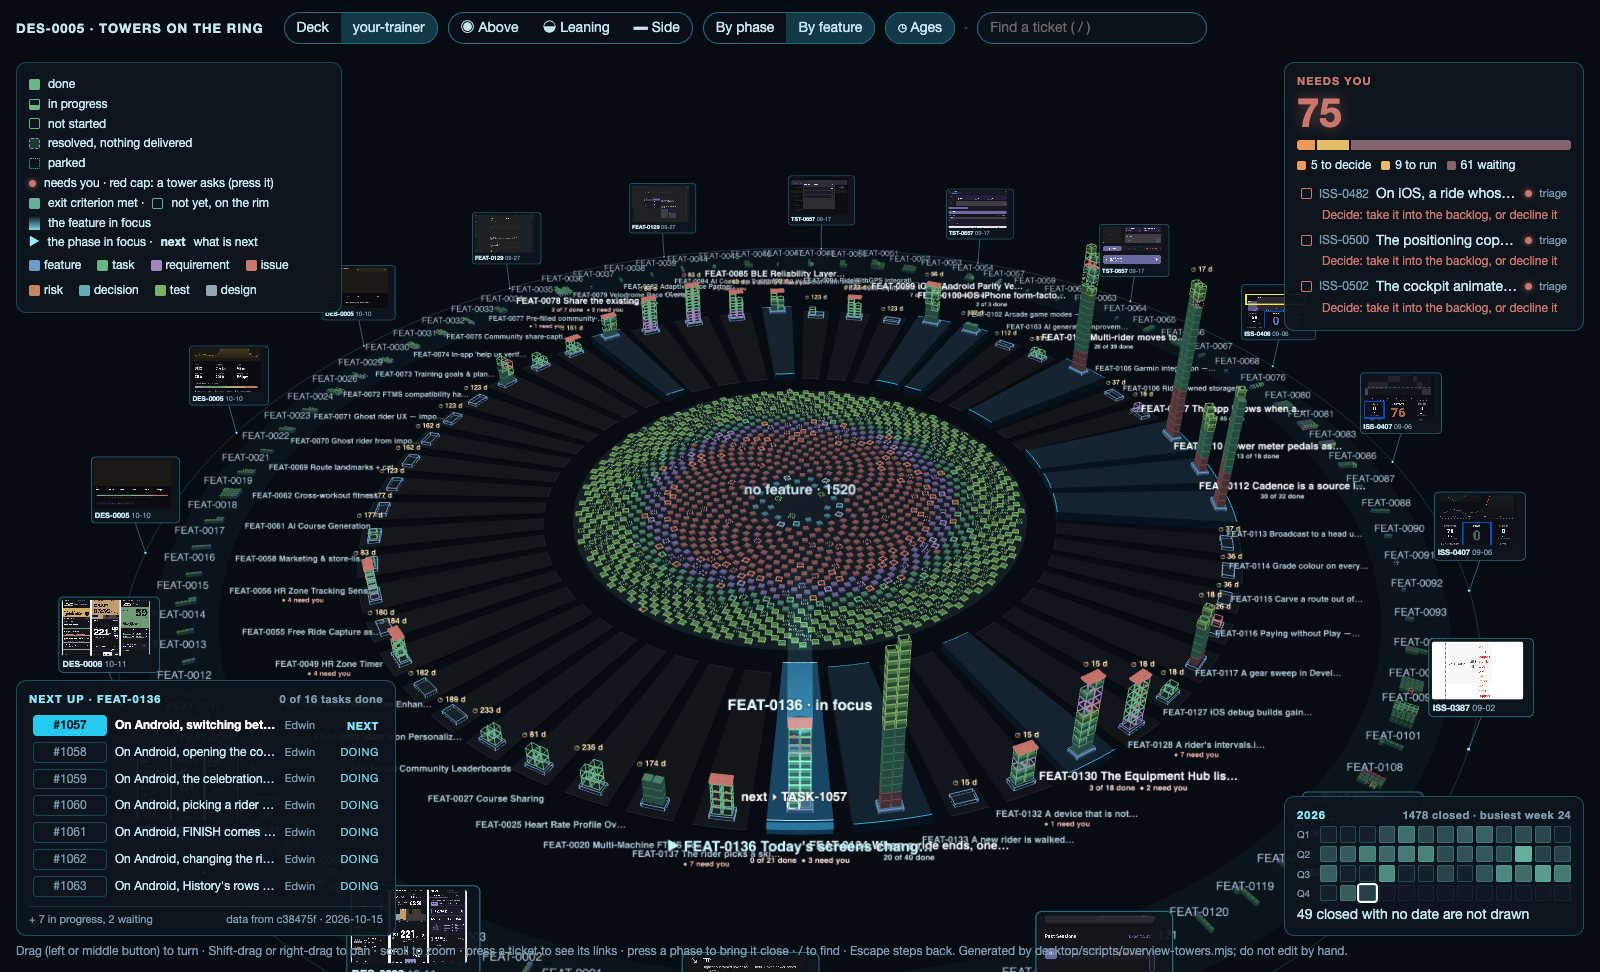
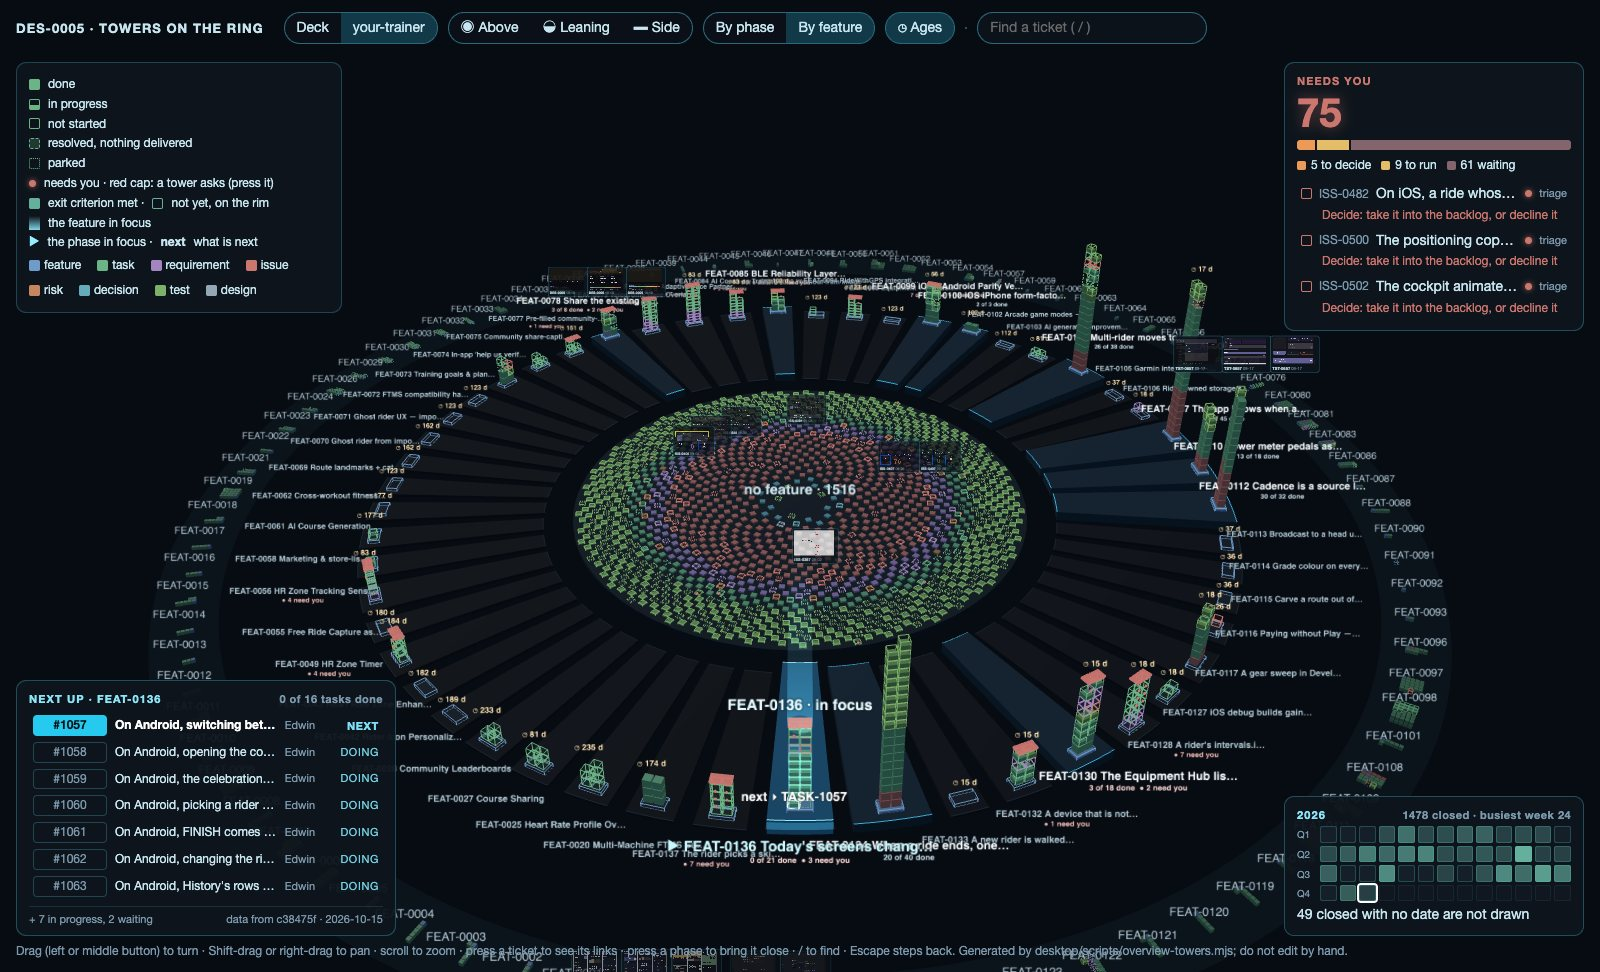
A phase brought close keeps its own pictures; DES-0005 describes pictures standing at their tickets, with new pictures (TASK-0179)

diff --git a/desktop/scripts/overview-towers-page.js b/desktop/scripts/overview-towers-page.js
@@ -760,7 +760,7 @@ function openPhase(i, selectId = null) {
   });
   state.shelfGroup.visible = false;
   state.coreGroup.visible = false;
-  state.evidenceGroup.visible = false;
+  // The phase's own pictures still stand at their tickets; the others are hidden in placeEvidence.
   state.nextMark.visible = state.where.get(state.d.next)?.phase === i;
   const ph = state.phases[i];
   const rMid = (state.R0 + state.R1) / 2;

diff --git a/docs/designs/DES-0005-towers.html b/docs/designs/DES-0005-towers.html
@@ -902,7 +902,7 @@ function openPhase(i, selectId = null) {
   });
   state.shelfGroup.visible = false;
   state.coreGroup.visible = false;
-  state.evidenceGroup.visible = false;
+  // The phase's own pictures still stand at their tickets; the others are hidden in placeEvidence.
   state.nextMark.visible = state.where.get(state.d.next)?.phase === i;
   const ph = state.phases[i];
   const rMid = (state.R0 + state.R1) / 2;

diff --git a/docs/designs/DES-0005-The-Overview-Is-Drawn-Not-Written.md b/docs/designs/DES-0005-The-Overview-Is-Drawn-Not-Written.md
@@ -262,13 +262,13 @@ A search for "heart rate" on your-trainer: 29 matches, in four phases of the rin
 - **A needs-you panel, top right.** A large count of the tickets that need you, then one bar split by the cockpit's reasons: failed, to review, to decide (triage), to run (a test never run) and waiting. The first three tickets follow as cockpit rows, the most urgent reason first. Pressing a part of the bar, or its word, lights those tickets on the ring as a search does; pressing a row selects its ticket.
 - **By phase, or by feature.** A switch in the header regroups the ring. By feature, each unfinished feature is a segment with its tickets as one tower, whatever phase they are in, and the feature in focus faces you. Finished features stand on the shelf, and tickets of no feature lie in the core. Each segment's name is smaller than a phase's, since there are many more of them. The page remembers the choice in this browser.
 - **Age badges.** A tower whose tickets have not changed for 14 days or more carries "◷ 34 d": the days from its newest change to the date the data was read, which is the fixture's date, not today. The card gives the same count for one ticket. "◷ Ages" in the header hides and shows them.
-- **A ring of recent evidence**, outside the shelf: up to eighteen of the newest pictures kept beside the notes, at most three for one ticket, each on a post with its ticket's id and date. A picture belongs to the note that names it (its `evidence:` field, a link, or a wiki link by path, or by name when no other picture has that name), else to the ticket its file name names, else to the feature whose folder holds it; its date is its last commit, and a picture changed since is shown as it is today. Pressing one selects its ticket. The pictures are the files themselves, so the page shows them only where the repositories sit side by side, as here.
+- **Pictures stand at their own tickets** ([[TASK-0179]], 2026-10-22, replacing the ring of evidence outside the shelf that Edwin found wrong: further out on the towers means further from the work, and the pictures of the work in hand stood furthest out). Up to eighteen of the newest pictures kept beside the notes, at most three for one ticket, each stand just above their ticket: over its feature's tower, its tile, its finished phase's block on the shelf, or the core. Nearer the work, larger: a picture of the feature in focus is largest, then the phase in focus, then other unfinished work, then the core, and the shelf's are smallest and faded. With a phase brought close, only its pictures stand. A selected ticket's pane shows all its pictures, up to twelve. A picture belongs to the note that names it (its `evidence:` field, a link, or a wiki link by path, or by name when no other picture has that name), else to the ticket its file name names, else to the feature whose folder holds it; its date is its last commit, and a picture changed since is shown as it is today. A design stands in its feature's tower: the feature names it in `design:`, or the design names the feature in its own `implements:`. The pictures are the files themselves, so the page shows them only where the repositories sit side by side, as here.
 - **The year as weeks, bottom right**: four rows of thirteen squares, each filled by the tickets closed that week, the week the data was read outlined and the weeks after it faint. A ticket's closing week is the last update of its note; the last day or two of the year fold into week 52, and closed tickets with no date are counted under the squares (49 on your-trainer). Pressing a week lights the tickets closed in it.
 - The two panels on the right give way to the right pane when it opens.
 
 ![Deck grouped by feature](__attachments__/DES-0005/towers-deck-byfeature.jpg)
 
-Deck grouped by feature: the 15 unfinished features stand on the ring, FEAT-0028 in focus at the front, and 147 tickets of no feature lie in the core. The needs-you panel counts 12: 5 to review, 1 to run and 6 waiting. The year shows 298 tickets closed in 2026, the busiest week the 36th. The evidence ring holds eight pictures: three each of DES-0005 and DES-0004, two of DES-0003.
+Deck grouped by feature: the 15 unfinished features stand on the ring, FEAT-0028 in focus at the front, and 147 tickets of no feature lie in the core. The needs-you panel counts 12: 5 to review, 1 to run and 6 waiting. The year shows 298 tickets closed in 2026, the busiest week the 36th. Eight pictures stand at their tickets: DES-0005's three over FEAT-0025's tower in Overview, DES-0003's two over Glass, and DES-0004's three over the core, since no feature names DES-0004.
 
 ![Deck as the page opens, with the panels round the towers](__attachments__/DES-0005/towers-deck-home.jpg)
 
@@ -280,7 +280,7 @@ your-trainer grouped by feature: 51 unfinished features on the ring and 1,520 ti
 
 ![your-trainer as the page opens](__attachments__/DES-0005/towers-your-trainer-home.jpg)
 
-your-trainer by phase: 41 towers carry age badges, the quietest FEAT-0025 and FEAT-0028 in the backlog phase at 235 and 233 days. The evidence ring holds eighteen pictures, from DES-0006, DES-0005, TST-0657 (whose `evidence:` field lists the cadence pictures), FEAT-0129 and six issues.
+your-trainer by phase: 41 towers carry age badges, the quietest FEAT-0025 and FEAT-0028 in the backlog phase at 235 and 233 days. Eighteen pictures stand at their tickets: DES-0006, DES-0005, TST-0657 (whose `evidence:` field lists the cadence pictures), FEAT-0129 and six issues, the shelf's smallest.
 
 **What building them into Deck would cost.** The needs-you panel needs nothing new: each ticket's reason is already in Deck's overview model. Grouping by feature uses the feature each ticket already carries (FEAT-0026). Age badges and the weeks need each note's `updated:` in the model, which TASK-0176's board needs as well. The evidence ring needs one new read. The cockpit's sidecar already serves every file under `docs/` by its path (`/docs/<path>`), pictures included, but nothing lists the pictures with their dates and their tickets; Deck would build that list itself, read-only, like its index of notes. **What it leaves open:**
 - A ticket's closing week is its note's last update, which can be later than the day it closed.

diff --git a/docs/features/overview-design/plan/tasks/TASK-0179-Designs-Stand-On-Their-Own-Tickets-Not-On-An-Outer-Ring.md b/docs/features/overview-design/plan/tasks/TASK-0179-Designs-Stand-On-Their-Own-Tickets-Not-On-An-Outer-Ring.md
@@ -31,8 +31,12 @@ tests: ["[[TST-0094-DES-0005s-Plates-Are-Drawn-For-Every-Screen-With-Every-Mark]
 
 ## Definition of Done
 
-- [ ] The page places each picture at its ticket and sizes it by its nearness to the work, on both workspaces and both groupings.
-- [ ] The selected ticket's pane lists its pictures; the data holds each ticket's pictures for that.
-- [ ] TST-0094 checks that each picture's place is its ticket's and the nearness it is sized by.
-- [ ] Pictures in DES-0005 replace the evidence ring's.
+- [x] The page places each picture at its ticket and sizes it by its nearness to the work, on both workspaces and both groupings.
+- [x] The selected ticket's pane lists its pictures; the data holds each ticket's pictures for that.
+- [x] TST-0094 checks that each picture's place is its ticket's and the nearness it is sized by.
+- [x] Pictures in DES-0005 replace the evidence ring's.
 - [ ] `cd desktop && npm test` passes; reviewed with the next round of FEAT-0025.
+
+## Verification
+
+Each picture's anchor is its ticket's place on the ring: the top of its feature's tower, its tile, its block on the shelf or its tile in the core; pictures of one ticket stand side by side. The data gives each picture its nearness grouped by phase (`near`: feature, phase, ring, shelf, core) and by feature (`nearF`), and each ticket its pictures (`pictures`, up to twelve, newest first) for the pane. Found on the way: the towers read a feature's `designs:`, but every note writes `design:`, so no design ever joined its feature's tower; now `design:` is read, and a design with no parent stands in the lowest-numbered feature its own `implements:` names. On Deck, DES-0005's three pictures now stand over FEAT-0025's tower in Overview (`phase`), DES-0003's over Glass, DES-0004's over the core. TST-0094 checks every picture's nearness both ways, that its ticket's pane lists it, the pane's limit and order, and the `design:` and `implements:` rules on small notes; three breaks were each caught (the focus phase not told apart, `design:` not read, the pane cut to one picture). It passes in a clone without history and without your-trainer.
